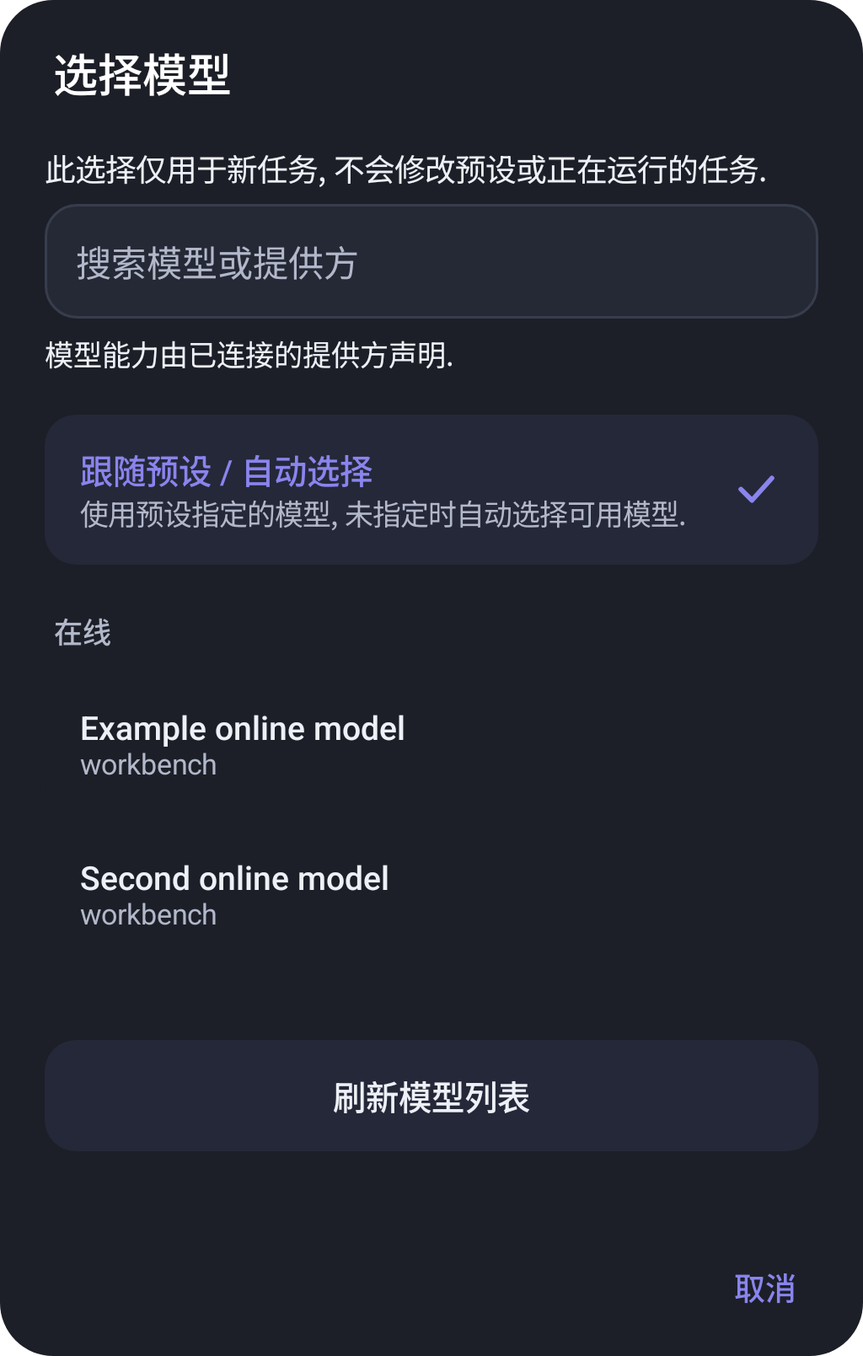
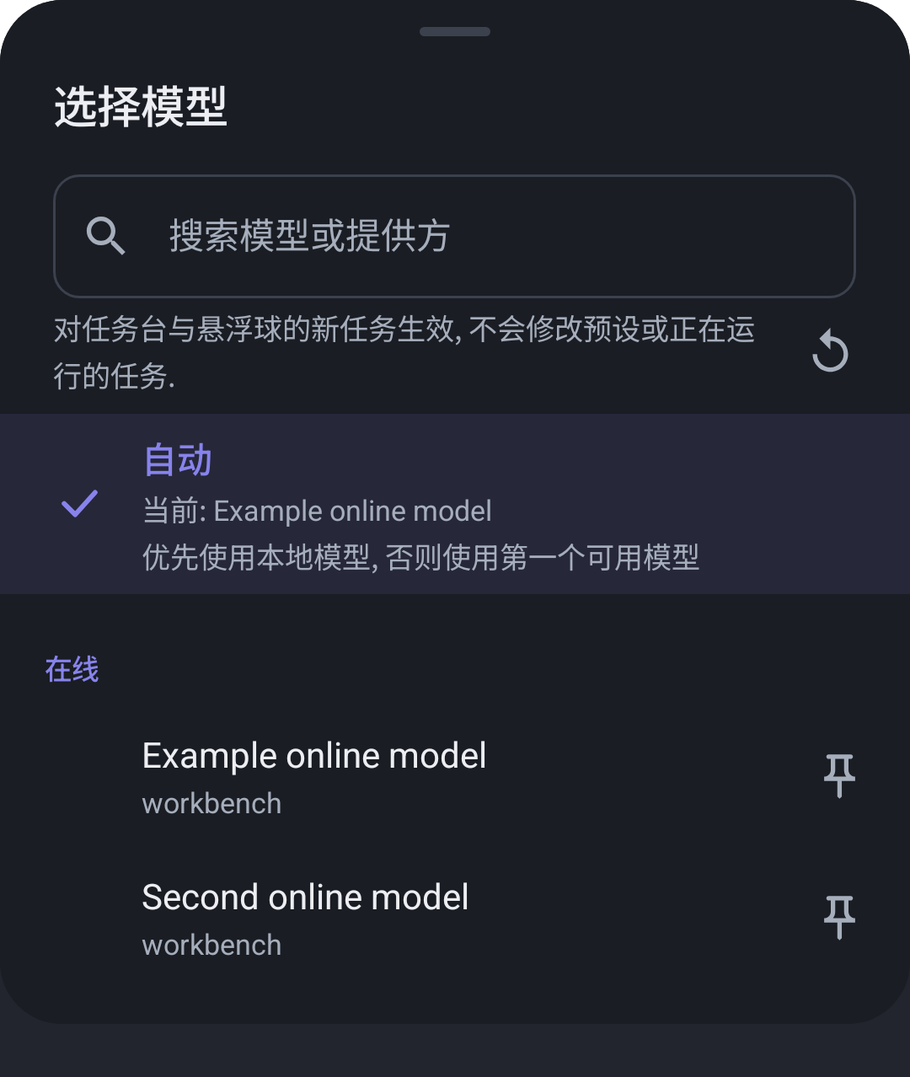
docs(ui): screenshots, roadmap decisions and verification record
Final layout fixes found by the 2x-font audit and the captures: the
confirmation countdown wraps beside the badge, the memory import review
keeps Skip and Accept in equal columns with Cancel in the page, and the
composer splits into an options row (preset chip, full access badge) and
an input row with a round Start button. The Recent tasks header no longer
appears with empty history, and sticky scrolling and the Jump to latest
chip only follow a task, never the welcome state.

Recapture all 12 interface images on the disposable API 37.1 emulator
(model images now contain only the bottom sheet), add the AGENTS section
14 toolkit rule, the roadmap session record and the Material 3 redesign
evidence with full-suite, font-scale, IME and package-size results.

diff --git a/app/src/main/java/io/github/supermonster003/autojs6/plugin/ai/agent/ui/Composer.kt b/app/src/main/java/io/github/supermonster003/autojs6/plugin/ai/agent/ui/Composer.kt
@@ -29,7 +29,13 @@ internal class Composer(private val kit: Kit, onPreset: () -> Unit, onVoice: () 
     }
     val voice = kit.iconButton(R.drawable.ic_mic, kit.string(R.string.workbench_voice), "voice", kit.palette.accent) { onVoice() }
         .apply { id = R.id.workbench_voice; visibility = View.GONE }
-    val send = kit.filledButton(kit.string(R.string.workbench_send), "send") { onSend() }.apply { id = R.id.workbench_send }
+    /** Round send button; its label is the accessible name "Start task". */
+    val send = kit.filledButton("", "send") { onSend() }.apply {
+        id = R.id.workbench_send; contentDescription = kit.string(R.string.workbench_send)
+        setIconResource(R.drawable.ic_send); iconPadding = 0; iconSize = kit.dp(22)
+        iconGravity = com.google.android.material.button.MaterialButton.ICON_GRAVITY_TEXT_START
+        setPaddingRelative(0, 0, 0, 0); minWidth = kit.dp(Ui.TOUCH_TARGET); minimumWidth = kit.dp(Ui.TOUCH_TARGET)
+    }
     val error: TextView = kit.text("", Ui.TEXT_SECONDARY, kit.palette.danger).apply {
         id = R.id.workbench_error; visibility = View.GONE; textAlignment = View.TEXT_ALIGNMENT_VIEW_START
         accessibilityLiveRegion = View.ACCESSIBILITY_LIVE_REGION_ASSERTIVE
@@ -40,18 +46,22 @@ internal class Composer(private val kit: Kit, onPreset: () -> Unit, onVoice: () 
         background = kit.roundedFill(kit.palette.surface, Ui.RADIUS_SHEET, kit.palette.outline)
         elevation = kit.dp(6).toFloat()
         setPaddingRelative(kit.dp(Ui.SPACE_LG), kit.dp(Ui.SPACE_MD), kit.dp(Ui.SPACE_MD), kit.dp(Ui.SPACE_SM))
-        addView(fieldPair.first, LinearLayout.LayoutParams(-1, -2).apply { marginEnd = kit.dp(Ui.SPACE_XS) })
-        addView(error, LinearLayout.LayoutParams(-1, -2))
+        // Options row: the preset chip may use the full width, so it never competes with the actions.
         addView(LinearLayout(kit.context).apply {
             orientation = LinearLayout.HORIZONTAL; gravity = Gravity.CENTER_VERTICAL
-            // The chip keeps its natural width but never pushes the actions out of the row.
             addView(android.widget.FrameLayout(kit.context).apply {
                 addView(preset, android.widget.FrameLayout.LayoutParams(-2, -2, Gravity.START or Gravity.CENTER_VERTICAL))
             }, LinearLayout.LayoutParams(0, -2, 1f).apply { marginEnd = kit.dp(Ui.SPACE_SM) })
             addView(fullAccess, LinearLayout.LayoutParams(-2, -2).apply { marginEnd = kit.dp(Ui.SPACE_XS) })
-            addView(voice, LinearLayout.LayoutParams(kit.dp(Ui.TOUCH_TARGET), kit.dp(Ui.TOUCH_TARGET)))
-            addView(send, LinearLayout.LayoutParams(-2, -2).apply { marginStart = kit.dp(Ui.SPACE_XS) })
+        }, LinearLayout.LayoutParams(-1, -2))
+        // Input row: the goal field grows; voice and send keep fixed 48dp targets beside it.
+        addView(LinearLayout(kit.context).apply {
+            orientation = LinearLayout.HORIZONTAL; gravity = Gravity.BOTTOM
+            addView(fieldPair.first, LinearLayout.LayoutParams(0, -2, 1f))
+            addView(voice, LinearLayout.LayoutParams(kit.dp(Ui.TOUCH_TARGET), kit.dp(Ui.TOUCH_TARGET)).apply { marginStart = kit.dp(Ui.SPACE_XS); bottomMargin = kit.dp(4) })
+            addView(send, LinearLayout.LayoutParams(kit.dp(52), kit.dp(52)).apply { marginStart = kit.dp(Ui.SPACE_XS); bottomMargin = kit.dp(2) })
         }, LinearLayout.LayoutParams(-1, -2).apply { topMargin = kit.dp(Ui.SPACE_XS) })
+        addView(error, LinearLayout.LayoutParams(-1, -2))
     }
 
     fun showPreset(label: String, available: Boolean) {

diff --git a/app/src/androidTest/java/io/github/supermonster003/autojs6/plugin/ai/agent/ui/WorkbenchActivityTest.kt b/app/src/androidTest/java/io/github/supermonster003/autojs6/plugin/ai/agent/ui/WorkbenchActivityTest.kt
@@ -1600,6 +1600,7 @@ class WorkbenchActivityTest {
                         waitUi(scenario, "Demo answer field") { it.findViewById<EditText>(R.id.workbench_answer)?.isLaidOut == true }
                         scenario.onActivity { it.findViewById<EditText>(R.id.workbench_answer).setText("English") }
                         instrumentation.waitForIdleSync()
+                        SystemClock.sleep(600) // Let the field's floating-label animation finish before rendering.
                         scenario.onActivity { ReadmeCapture.save(it.window.decorView, "workbench") }
                         scenario.onActivity {
                             val card = it.findViewById<LinearLayout>(R.id.workbench_pending)
@@ -1658,11 +1659,12 @@ class WorkbenchActivityTest {
                     waitUi(scenario, "Redesign picker ready") { sheetRow(it, "model-workbench:second")?.isLaidOut == true }
                     instrumentation.waitForIdleSync()
                     scenario.onActivity {
-                        ReadmeCapture.save(it.models.sheet.handle!!.dialog.window!!.decorView, "models-$dark")
+                        // Only the sheet itself; the dialog window around it is transparent.
+                        ReadmeCapture.save(it.models.sheet.handle!!.dialog.findViewById(com.google.android.material.R.id.design_bottom_sheet)!!, "models-$dark")
                         sheetRow(it, "model-workbench:second")!!.performClick()
                         it.findViewById<EditText>(R.id.workbench_goal).setText("帮我整理今天的待办, 并按优先级安排执行顺序.")
                     }
-                    instrumentation.waitForIdleSync()
+                    instrumentation.waitForIdleSync(); SystemClock.sleep(600)
                     scenario.onActivity { ReadmeCapture.save(it.window.decorView, "home-$dark") }
                 }
                 ActivityScenario.launch(SettingsActivity::class.java).use { scenario ->

diff --git a/app/src/main/java/io/github/supermonster003/autojs6/plugin/ai/agent/ui/MemoryActivity.kt b/app/src/main/java/io/github/supermonster003/autojs6/plugin/ai/agent/ui/MemoryActivity.kt
@@ -229,11 +229,13 @@ class MemoryActivity : HostAppearanceActivity() {
         val available = row.scope in scopes
         if (!available) page.addView(Banner(kit).apply { show(getString(R.string.memory_scope_missing), Tone.WARNING, R.drawable.ic_warning) }.view,
             LinearLayout.LayoutParams(-1, -2).apply { topMargin = kit.dp(Ui.SPACE_MD) })
-        bar.addView(kit.textButton(getString(R.string.memory_cancel_import), "memory-cancel-import") { imports = emptyList(); importIndex = 0; refresh() })
-        bar.addView(View(this), LinearLayout.LayoutParams(0, 1, 1f))
+        page.addView(kit.textButton(getString(R.string.memory_cancel_import), "memory-cancel-import") { imports = emptyList(); importIndex = 0; refresh() },
+            LinearLayout.LayoutParams(-2, -2).apply { topMargin = kit.dp(Ui.SPACE_LG) })
+        // Equal shares: at large text sizes both labels wrap instead of overflowing the bar.
         bar.addView(kit.tonalButton(getString(R.string.memory_skip), "memory-skip") { nextImport() },
-            LinearLayout.LayoutParams(-2, -2).apply { marginEnd = kit.dp(Ui.SPACE_SM) })
-        bar.addView(kit.filledButton(getString(R.string.memory_accept), "memory-accept") { save(row, before, true) { nextImport() } }.apply { isEnabled = available })
+            LinearLayout.LayoutParams(0, -2, 1f).apply { marginEnd = kit.dp(Ui.SPACE_SM) })
+        bar.addView(kit.filledButton(getString(R.string.memory_accept), "memory-accept") { save(row, before, true) { nextImport() } }.apply { isEnabled = available },
+            LinearLayout.LayoutParams(0, -2, 1f))
     }
     private fun nextImport() {
         importIndex++

diff --git a/app/src/main/java/io/github/supermonster003/autojs6/plugin/ai/agent/ui/PendingCard.kt b/app/src/main/java/io/github/supermonster003/autojs6/plugin/ai/agent/ui/PendingCard.kt
@@ -164,11 +164,13 @@ internal class PendingCard(
             setImageDrawable(kit.tintedDrawable(icon, color)); importantForAccessibility = View.IMPORTANT_FOR_ACCESSIBILITY_NO
         }, LinearLayout.LayoutParams(kit.dp(20), kit.dp(20)).apply { marginEnd = kit.dp(Ui.SPACE_SM) })
         label?.let { row.addView(kit.badge(it, tone)) }
-        row.addView(View(container.context), LinearLayout.LayoutParams(0, 1, 1f))
-        if (deadline != null) countdown = kit.text("", Ui.TEXT_CAPTION, kit.palette.muted).apply {
-            id = R.id.interaction_countdown; accessibilityLiveRegion = View.ACCESSIBILITY_LIVE_REGION_NONE
-            row.addView(this, LinearLayout.LayoutParams(-2, -2).apply { marginStart = kit.dp(Ui.SPACE_SM) })
+        // The countdown takes the remaining width and wraps there, so large text never pushes it out.
+        val remaining = kit.text("", Ui.TEXT_CAPTION, kit.palette.muted).apply {
+            gravity = Gravity.END; textAlignment = View.TEXT_ALIGNMENT_VIEW_END
+            accessibilityLiveRegion = View.ACCESSIBILITY_LIVE_REGION_NONE
         }
+        row.addView(remaining, LinearLayout.LayoutParams(0, -2, 1f).apply { marginStart = kit.dp(Ui.SPACE_SM) })
+        if (deadline != null) countdown = remaining.apply { id = R.id.interaction_countdown }
         add(row)
     }
     private fun title(text: String) = kit.text(text, Ui.TEXT_TITLE, kit.palette.text, medium = true).apply {

diff --git a/app/src/main/java/io/github/supermonster003/autojs6/plugin/ai/agent/ui/LauncherActivity.kt b/app/src/main/java/io/github/supermonster003/autojs6/plugin/ai/agent/ui/LauncherActivity.kt
@@ -218,11 +218,13 @@ class LauncherActivity : HostAppearanceActivity(), FeedActions {
         val revealQuestion = request != null && request != lastPendingId
         lastPendingId = request
         views.scroll.post {
+            // Sticky scrolling follows a task; the welcome state and first load keep their position.
             when {
-                row != null && revealCurrent -> { revealCurrent = false; reveal(views.feed.current) }
-                row != null && revealQuestion -> reveal(views.feed.pending)
+                row == null -> views.jump.visibility = View.GONE
+                revealCurrent -> { revealCurrent = false; reveal(views.feed.current) }
+                revealQuestion -> reveal(views.feed.pending)
                 wasAtEnd -> scrollToEnd(false)
-                views.feed.view.height > before && !atEnd() -> views.jump.visibility = View.VISIBLE
+                before > 0 && views.feed.view.height > before && !atEnd() -> views.jump.visibility = View.VISIBLE
             }
         }
         updateSend()

diff --git a/app/src/main/java/io/github/supermonster003/autojs6/plugin/ai/agent/ui/ConfirmationActivity.kt b/app/src/main/java/io/github/supermonster003/autojs6/plugin/ai/agent/ui/ConfirmationActivity.kt
@@ -49,7 +49,8 @@ class ConfirmationActivity : HostAppearanceActivity() {
             accessibilityLiveRegion = View.ACCESSIBILITY_LIVE_REGION_POLITE; textAlignment = View.TEXT_ALIGNMENT_VIEW_START
             content.addView(this, LinearLayout.LayoutParams(-1, -2).apply { topMargin = kit.dp(Ui.SPACE_LG) })
         }
-        val pending = LinearLayout(this).apply { id = R.id.workbench_pending; orientation = LinearLayout.VERTICAL; content.addView(this) }
+        val pending = LinearLayout(this).apply { id = R.id.workbench_pending; orientation = LinearLayout.VERTICAL }
+        content.addView(pending, LinearLayout.LayoutParams(-1, -2).apply { topMargin = kit.dp(Ui.SPACE_LG) })
         content.addView(kit.textButton(getString(R.string.interaction_later), "interaction-later") { finish() },
             LinearLayout.LayoutParams(-2, -2).apply { gravity = android.view.Gravity.END; topMargin = kit.dp(Ui.SPACE_SM) })
         setContentView(androidx.core.widget.NestedScrollView(this).apply { isFillViewport = true; addView(content) })

diff --git a/app/src/main/java/io/github/supermonster003/autojs6/plugin/ai/agent/ui/WorkbenchFeed.kt b/app/src/main/java/io/github/supermonster003/autojs6/plugin/ai/agent/ui/WorkbenchFeed.kt
@@ -81,7 +81,8 @@ internal class WorkbenchFeed(private val kit: Kit, private val actions: FeedActi
     }
     private var row: JsonObject? = null
     private var runId: String? = null
-    private var recentKey = ""
+    /** Null until the first render, so an empty history still hides the section header. */
+    private var recentKey: String? = null
     private var welcomeShown: Boolean? = null
 
     init {

diff --git a/docs/dev/standalone-ui-material3-2026-09-27.md b/docs/dev/standalone-ui-material3-2026-09-27.md
@@ -1,0 +1,141 @@
+# Standalone app Material 3 redesign and shared model switcher (2026-09-27)
+
+Maintainer request: the previous standalone redesign (build 93, [record](standalone-ui-redesign-2026-09-26.md)) still felt fragmented. Redesign every standalone screen for consistency, completeness and detail. Make switching online models fast without presets. Put a top-right overflow menu with Settings on the home screen. Give Settings the items inherited from AutoJs6 (language, dark mode, theme color, check for updates, automatic update checks, ignored updates, version history, about app and developer), modeled on AutoJs6-Plugin-Three-Stone-AI.
+
+The maintainer chose four options on 2026-09-27:
+
+1. Align the toolkit with Three-Stone AI.
+2. Make the home screen a task feed with a docked composer and the model capsule in the top bar.
+3. Keep models independent of presets.
+4. Redesign all pages in phased commits.
+
+The earlier constraint still holds: choosing Full access shows only an inline warning, never a dialog. The choices are recorded as roadmap decisions D45 (toolkit) and D46 (models). No roadmap phase was added, split or dropped. There were no public AIDL, permission, host or reference-plugin changes.
+
+## Commits
+
+| Build | Commit | Scope |
+| --- | --- | --- |
+| 95 | df48060 | AppCompat 1.7.1 + Material Components 1.13.0, Material 3 themes, `HostAppearanceActivity` on AppCompat, `ui/kit` |
+| 96 | 0c4f7e9 | Immediate settings (no Save button), About screen, document viewer |
+| 97 | 89cb6ca | Shared model switcher independent of presets, private model record in history |
+| 98 | 9099d56 | Readable confirmations with parameter tables, Material floating panel |
+| 99 | cc244af | Task feed workbench with docked composer, connection banner, keyed timeline |
+| 100 | 0aca0d9 | Searchable history, run detail timeline, Activity Result document saves |
+| 101 | db9b9c9 | Presets, memory, MCP servers and script directories on the kit; legacy helpers removed |
+| 102 | this record | Final layout fixes, screenshots, roadmap and AGENTS updates, verification |
+
+## Design
+
+- **Toolkit (D45).**
+  - Every screen is built in Kotlin through `ui/kit`, with no XML layouts or Compose. The kit provides tokens, the `AgentPalette` / `AgentColorPolicy` colors, scaffold and insets, rows, buttons, cards, dialogs, bottom sheets, chips and feedback.
+  - The accent keeps at least 4.5:1 contrast against the background, the surface and its own tonal fill.
+  - Host or custom theme colors tint controls at runtime.
+  - `localeFilters` keeps only the app's 10 languages from library resources.
+  - Kit builders take a `Kit(context, palette)`, so the `:agent` overlay and `PendingCard` use the same styling.
+- **Home.**
+  - The top bar has the title, the model capsule, History and an overflow menu (New task, Presets, Memory, Script directories, MCP servers, Settings).
+  - One connection banner covers every non-attached host state and hides once attached.
+  - The feed shows a welcome state (example goals and recent tasks) or the current task. The current task shows the goal, state, model and preset, the full access badge, progress, limits, keyed steps, the inline confirmation card, the accessibility fallback and the result.
+  - Rendering is incremental, so the 500 ms poll never rebuilds the feed. Scrolling is sticky and follows only a task; a "Jump to latest" chip appears when new task content arrives out of view.
+  - The composer is docked above the keyboard (`adjustResize` plus edge-to-edge insets). It has two rows: an options row with the preset chip and the full access badge, then an input row with the goal field, voice and a round Start button.
+  - Run again and Retry with another model only fill the composer; they never start a task.
+- **Models (D46).**
+  - The workbench and the floating ball share `filesDir/model-selection.json`: the current choice, 8 recent and 16 pinned models. The format is closed; anything unreadable fails closed to Automatic.
+  - Automatic means the first on-device target, otherwise the first target. The broker and the sheet preview share this rule.
+  - The bottom sheet offers search, Automatic with its preview, pinned and recent models, locality groups, tool-calling and image-input badges, and an Unavailable row for a model that has disappeared.
+  - Plugin UI tasks (decided by the private endpoint) never inherit a preset's legacy `targetId`. Host and script requests keep inheritance.
+  - Private history records the requested target and the resolved model. The host projection strips both, plus the full access flag.
+- **Settings.**
+  - Sections, in order: Appearance, Tasks, Tools and data, Quick access, Data management, Updates, Information.
+  - Every change is saved at once through serialized whole-object saves, with optimistic rendering and rollback.
+  - Full access shows only a red inline note.
+  - Tool groups and limits open bottom sheets; durations are in minutes.
+  - About shows the version, developer, source, license and third-party notices. Version history and notices open in a scaffolded document viewer.
+- **Confirmations and floating ball.**
+  - Confirmation cards show a risk badge, the localized tool group and tool, the description and a parameter table instead of raw JSON. The actions are Allow once (filled), Always allow for this session (tonal) and Deny (outlined danger).
+  - `ConfirmationActivity` keeps `FLAG_SECURE`.
+  - The floating ball uses a Material 3 themed context and inline panels only (no dialogs or popups in the overlay). Its model row opens the shared switcher.
+- **History and detail.**
+  - History has search, status chips, a preset chip and a Material date range picker, and a destructive "clear finished" action.
+  - The detail screen shows the model, duration and limits, a shared step timeline with parameter tables and expandable observations, and a menu to export diagnostics, delete the record or use the task's model.
+- **Management screens.**
+  - Presets: cards with a row menu and a full-page editor.
+  - Memory: search, scope chips and the import review.
+  - MCP servers: a risk choice, the write-only token field and a tool checklist.
+  - Script directories: validation errors under the field.
+  - Every editor asks before discarding unsaved changes.
+  - `AgentUi`, `HistoryViews`, `AgentDialogs`, the spinner layout and the collapsible-section state were removed.
+
+## Dependencies and package size
+
+AppCompat 1.7.1 and Material Components for Android 1.13.0 (Apache-2.0) are added with their AndroidX runtime dependencies. Coordinates, SHA-256 hashes and the transitive list are in `THIRD_PARTY_NOTICES.md`, and the v1.2.0 changelog has a `dependency` entry. The app still has no native libraries and passes the native-page-alignment guard.
+
+| Release APK (unsigned name, R8) | Bytes |
+| --- | --- |
+| build 93, previous redesign (signed release) | 826488 |
+| build 94, before the dependency | 846324 |
+| build 95, AppCompat + Material, `localeFilters` | 1952497 |
+| build 96 | 2119353 |
+| build 97 | 2130994 |
+| build 100 | 2323016 |
+| build 101 | 2327192 |
+| build 102, final | 2327936 |
+
+## Tests added or rewritten
+
+- JVM:
+  - `AgentColorPolicyTest` and `KitContrastTest`, for WCAG contrast of accents, tonal fills and custom seeds in light and dark;
+  - `SettingsDraft`;
+  - `ModelSelectionCodecTest`;
+  - `AutomaticTargetTest`;
+  - preset admission (UI tasks ignore preset models, scripts keep them);
+  - history codec and host projection;
+  - `ArgumentRows`;
+  - `RunHistoryFilter` query.
+- Instrumentation:
+  - Settings, About, the model sheet, workbench feed, history and detail, presets, memory, MCP, script roots, confirmation and floating tests were rewritten for the new widgets. They keep the existing ids and tags where possible.
+  - `UiAccessibilityAudit` checks labels, 48 dp targets, parent bounds and clipped text. Only labels with an explicit truncatable role and a full content description may ellipsize.
+
+The new checks found and fixed these problems:
+
+- dark default tonal text at 3.97:1;
+- a 2x-font overflow of the confirmation countdown and the memory review bar;
+- a preset chip below 48 dp with extreme text;
+- a "Recent tasks" header shown with empty history;
+- the "Jump to latest" chip appearing over the welcome state;
+- an empty toolbar menu measured as a zero-width RTL control;
+- a sheet handle not cleared synchronously on dismiss.
+
+No layout threshold, identity check or confirmation policy was relaxed.
+
+## Verification
+
+The final source (build 102) passed `:app:testDebugUnitTest :app:assembleDebug :app:assembleDebugAndroidTest :app:lintDebug :app:assembleRelease` in one Gradle run under the Temurin 21 emulation, with a single platform version banner:
+
+- JVM: 617 tests, 0 failures, 0 errors, 1 existing performance opt-in skip.
+- Lint: 0 errors and 8 warnings. The warnings are dependency and plugin versions, two duplicate launcher icon configurations, the `AgentRuntime` static context and the unused round launcher icon.
+- R8 release: no missing classes, no native libraries.
+- `py .python/generate_markdown.py --check` passed (10 languages, 36 artifacts). The string check found the same 353 keys in all 11 `values*` folders, with no unused keys. `git diff --check` was clean.
+
+The signed digest archive (`appendDigestToReleasedFiles`) was not produced, because nothing is released.
+
+Device checks used only the disposable `AI_Agent_Conformance_UI_20260926` (API 37.1, x86_64, 16 KiB) and `AI_Agent_Conformance_UI24_20260926` (API 24, x86) emulators. They were set up with the guarded fake host (`run_conformance.py --prepare-only`) and driven by direct `am instrument` per verified serial. The five attached phones were never targeted.
+
+| Device | Full suite on the final source | Duration |
+| --- | --- | --- |
+| API 37.1, AI_Agent_Conformance_UI_20260926 | 128 tests: 124 passed, 0 failed, 4 skipped | 463.15 s |
+| API 24, AI_Agent_Conformance_UI24_20260926 | 122 tests: 118 passed, 0 failed, 4 skipped | 334.537 s |
+
+Each suite skips four explicit opt-in fixtures: three capture methods and one real-MCP interoperability fixture that needs an external server. Earlier full runs passed in Phase 5, Phase 7 and before the final layout fixes. The API 24 emulator crashed once when Gradle ran at the same time; it was restarted, and Gradle is never run during a device suite.
+
+Large text: the five UI audit methods ran on API 37.1 at font scale 2.0, including the Arabic dark layout. They covered settings, dialogs, sheets and documents, management screens, confirmation questions and floating states: 32 named states, 0 issues. The font scale was restored to 1.0 afterwards.
+
+IME check: the goal field was focused on both emulators. The docked composer and the Start button stayed above the keyboard, and `dumpsys input_method` reported the keyboard shown.
+
+Screenshots: all 12 images in `docs/images/` were recaptured from production views with synthetic fixtures. Provenance and hashes are in [the capture record](../images/README.md). The model images now contain only the bottom sheet (1080 x 1278). A second capture after the last code change, on freshly cleared plugin data, matched 11 images byte for byte. `detail.png` differed only in the task time and elapsed values, so the committed images were kept.
+
+## Boundaries
+
+- Only disposable emulators and synthetic model replies were used. There were no real model calls, credentials, payments or physical-device installs.
+- The keyboard and 2x-font behavior was checked on emulators only, not on vendor ROMs.
+- 1.2.0 remains an unreleased development candidate. Nothing was pushed, tagged or published.

diff --git a/docs/images/README.md b/docs/images/README.md
@@ -1,35 +1,38 @@
 # Interface captures
 
-Captured on 2026-09-26 from production views in the standalone UI redesign,
-version 1.2.0 / build 93. Android API 37.1, 16 KiB disposable emulator,
+Captured on 2026-09-27 from production views after the Material 3 redesign,
+version 1.2.0 / build 102. Android API 37.1, 16 KiB disposable emulator,
 1080 x 1920, density 420, font scale 1.0. These are interface examples with
 synthetic tasks and scripted replies, not real-model acceptance results.
 
 The four README images use English and a supported host appearance snapshot.
 The app-* images use Simplified Chinese and the app's indigo theme, in light
-and dark mode. The model names explicitly identify fixture models. The home
-draft is never submitted. Settings-more captures the bottom of the settings
-page after scrolling has finished.
+and dark mode. The model names explicitly identify fixture models. The
+app-models images contain only the model bottom sheet, without the dimmed
+window behind it. The home draft is never submitted. Settings-more captures
+the bottom of the settings page after scrolling has finished.
 
 | File | Pixels | SHA-256 |
 | --- | --- | --- |
-| app-home-dark.png | 1080 x 1920 | 0ff149edd99b0ec79ddde65c270cdcef6be3d271d413d6821c84596c00e7146a |
-| app-home-light.png | 1080 x 1920 | 090ae919bf8f83200c88474e694b2e49830a52c89bbc83c80c5cd60789dacb57 |
-| app-models-dark.png | 1024 x 1609 | c1791cb1767755ab4deaf07b0ba8575a866e38b3d33a0d7d049426d6f864ebab |
-| app-models-light.png | 1024 x 1609 | f8ba8fa9a15a3f1d663ff3de511e4244f303261efe3abb682c575006ffac6e61 |
-| app-settings-dark.png | 1080 x 1920 | f9ce24b655f480e6ff7c6a8d4519eb8c3cedddc3d53ce042d8300949cb8a6f35 |
-| app-settings-light.png | 1080 x 1920 | b6cc3ced7b456aa3ad52c1f35b806e526d8be1e90ed84b79a80c6b07b32edb1f |
-| app-settings-more-dark.png | 1080 x 1920 | 8243acdb5c123621c3d8bd6de18f0d8a680bdda6d90714b8bc4a3c46ec571d66 |
-| app-settings-more-light.png | 1080 x 1920 | 4a1a264ff85da570195b2cc8f542c5fce2358ada0f23dc5346f4bde4ed092154 |
-| confirmation.png | 1024 x 924 | c22123bd89ca5e979d0ac86dd423d9774d1ce386c1112224fda1d6a8bd365634 |
-| detail.png | 1080 x 1920 | 9d0d6918102a1b18b3625f737638938c8b200b3ec160b00d38a21318852be180 |
-| floating.png | 945 x 1234 | 40efa0f17986690cb257b49f05bf30103887fa3c1fde8ab01494fc398be2d29d |
-| workbench.png | 1080 x 1920 | 00417403073fd5cb90f7fb572f9c24e2ccdf5113c85db1e77d0d21ddbaa53421 |
+| app-home-dark.png | 1080 x 1920 | 525ca968f01821a143ed7adf582fe6418e112955427e4e2975fad5fd7469dcc2 |
+| app-home-light.png | 1080 x 1920 | f4008bdf692ad9bdf63ede2d8b057912ae095c7a77477d69fa50445e3fe09d94 |
+| app-models-dark.png | 1080 x 1278 | 761bd7af098207f45356506fea171b68ea287d394fbc9d7ed3198de93b48c221 |
+| app-models-light.png | 1080 x 1278 | 2607e04cf11c1d361487be1a7842a66e9152a7c129706e346bbfa5beb57aaaee |
+| app-settings-dark.png | 1080 x 1920 | bb0b41c5d3f7961c7b7bb48ca5cc83196a4c50b23de5958a24b0484e4aedf21d |
+| app-settings-light.png | 1080 x 1920 | ad9d16fc02dcf7f997c94e32200ae27b0fc374039c6840575e8cbea867875a08 |
+| app-settings-more-dark.png | 1080 x 1920 | b41b06974cd20faac6b934028bd4f951ed925d12561373b6eaa49451a60dc709 |
+| app-settings-more-light.png | 1080 x 1920 | 9071a12a396e0a2369e076265ca498c2182daad13a2a90597c7f2846fc39469f |
+| confirmation.png | 1024 x 1715 | d2940940a54b1c58b5fa9b33182216dea964182a32a5c98632e8400b1c4e5489 |
+| detail.png | 1080 x 1920 | 5b2340646cb30213fee18d435d8e5a0a1007249fd7972f5f292c9adb0a2954c9 |
+| floating.png | 945 x 1234 | f51581e43c7c49794cd3cd6c74e72da4947fff097143d24da0d4bbfcf991f0d2 |
+| workbench.png | 1080 x 1920 | 412c0af1b3796902c20d484f25cd258ac40162329cf09bc41e798daadeb8c977 |
 
 ## Reproduce
 
 1. Create a fresh disposable AI_Agent_Conformance_* emulator without personal
-   history. Build Debug and androidTest, then use the guarded
+   history, or run adb shell pm clear on the plugin package of such an
+   emulator after earlier test runs, because the home screen lists recent
+   tasks. Build Debug and androidTest, then use the guarded
    test-apps/fake-host/run_conformance.py --prepare-only setup on that serial.
    Install the matching app-debug-androidTest.apk. Never install this fake host
    on a real device or an emulator containing real AutoJs6 data.

diff --git a/ROADMAP.md b/ROADMAP.md
@@ -1641,3 +1641,11 @@ P5 会话完成 (2026-09-24): 原 P5 三节与 AVD/真机示例门槛已通过, 
 - 每个确认新增 "当前会话始终允许" (位于允许一次与拒绝之间), 授权键为工具, 风险等级与付款类别, 仅限本次任务; 其他敏感授权不覆盖付款. 本地紧凑提示词按 4096 token 预算收敛, 默认策略不注入 confirmationMode; 提示词快照已审阅更新.
 - 验证: JVM 595 项, 594 通过 + 1 既有性能开关跳过; Temurin 模拟下 debug/androidTest/R8 release 与 lint 通过 (0 错误 / 6 既有警告), 十语言 36 生成产物校验通过. 私有 AVD API 37.1 全量 123 项中 118 通过 / 4 显式跳过 / 1 新增设置用例因选择器位于折叠区失败, 用例改为先展开任务选项后该类 13/13; API 24 使用修正后的测试包全量 OK (117 tests, 含 4 显式跳过). 37.1 未在测试修正后重跑全量. 详见 [验证回执](docs/dev/access-policy-2026-09-27.md).
 - 仅使用两台一次性 AVD, 已按名称关闭; 连接中的五台真机未安装或更改, 无真实模型调用, 订单或付款. 1.2.0 开发候选 / build 94, 不推送/发布/改标签. 真实设备上的 Root / Shizuku 自动启动与完全访问任务尚未实测, 需要时可在已配置自动启动方式的设备上补测.
+
+### 2026-09-27: 独立应用 Material 3 重设计与共享模型切换
+
+- 按维护者新需求重新设计独立应用全部界面, 维护者选择与 3-Stone AI 对齐 (D45), 主页为任务流 + 底部输入栏, 模型独立于预设 (D46), 全部页面分阶段提交 (build 95-102, 共 8 个提交). 不新增/分拆/丢弃路线图阶段, 不改公开 AIDL, 权限, 宿主或参考插件.
+- 引入 AppCompat 1.7.1 + Material Components 1.13.0, 界面仍全部由 Kotlin 经 `ui/kit` 构建, 强调色对窗口, 卡片与自身色调填充保持 4.5:1. 主页顶栏含模型胶囊, 历史与菜单 (新建任务, 预设, 记忆, 脚本目录, MCP 服务器, 设置); 未连接时只显示一条连接横幅; 任务流增量渲染, 仅跟随任务滚动; 输入栏停靠在键盘上方. 设置即时生效且无保存按钮, 按外观, 任务, 工具与数据, 快捷入口, 数据管理, 更新, 信息分组, 完全访问只显示红色内联提示; 新增关于页面与文档查看器.
+- 任务台与悬浮球共用私有模型选择 (最近 8 个, 置顶 16 个, 自动 = 第一个本地模型否则第一个目标), 插件界面任务不继承预设旧模型, 宿主与脚本请求保持继承. 确认卡片以参数表代替原始 JSON, 悬浮球只用内联面板; 历史支持搜索, 状态/预设/日期筛选, 详情显示模型与步骤时间线; 预设, 记忆, MCP 与脚本目录统一样式并在离开前确认未保存修改. 旧 `AgentUi` 等辅助类已删除, AGENTS 第 14 节补充界面工具约定.
+- 验证: JVM 617 项, 616 通过 + 1 既有性能开关跳过; Temurin 模拟下 debug/androidTest/lint/R8 release 同次通过, lint 0 错误 / 8 既有警告, 单一版本横幅; 十语言 36 个生成产物与 353 个字符串键校验通过. 私有 AVD 最终源码全量: API 37.1 共 128 项 (124 通过 / 4 显式跳过, 463 s), API 24 共 122 项 (118 通过 / 4 显式跳过, 335 s). API 37.1 双倍字号 (含 Arabic 暗色) 5 项审计 32 个命名状态无问题; 两台输入法检查输入栏与开始按钮均在键盘上方. 新测试发现并修复了色调填充对比度, 大字号溢出, 空历史标题与欢迎页 "跳到最新" 按钮等问题, 未放宽阈值或安全检查.
+- 12 张界面截图全部重拍并记录哈希; release APK 由 build 94 的 846324 字节增至 2327936 字节 (Material 依赖, 仅保留 10 种语言资源). 仅使用两台一次性 AVD 与合成模型回复, 连接中的五台真机未安装或更改, 无真实模型调用; 1.2.0 开发候选 / build 102, 不推送/发布/改标签. 厂商 ROM 上的输入法与大字号表现尚未实测. 详见 [设计与验证记录](docs/dev/standalone-ui-material3-2026-09-27.md).
